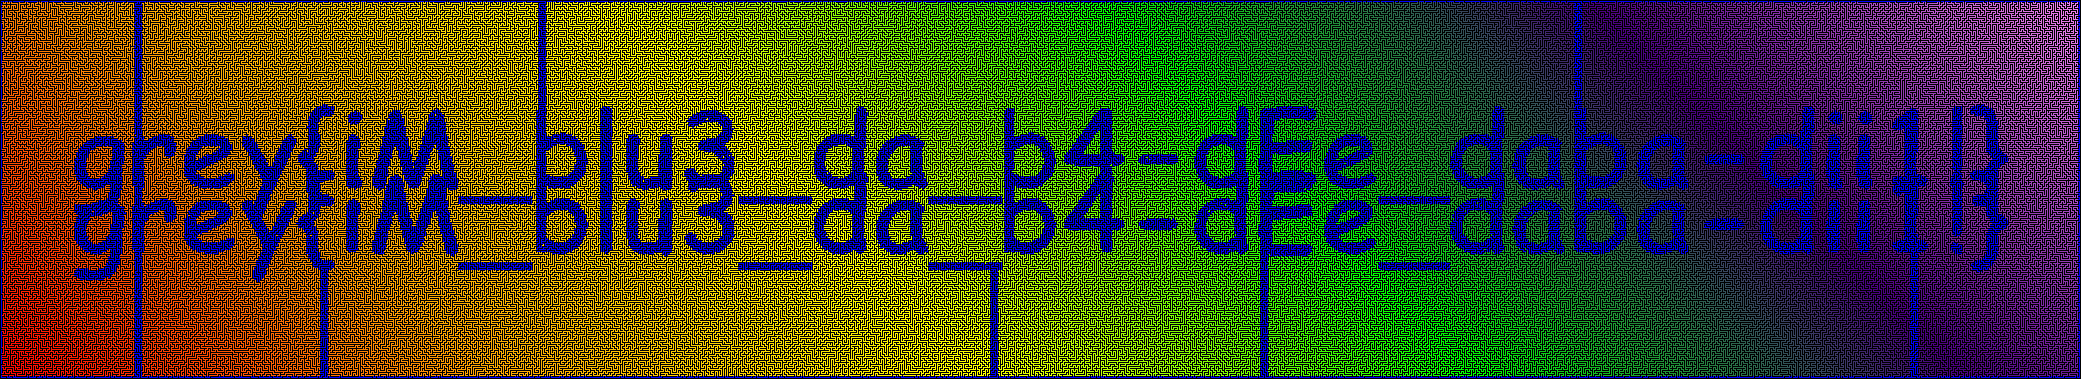
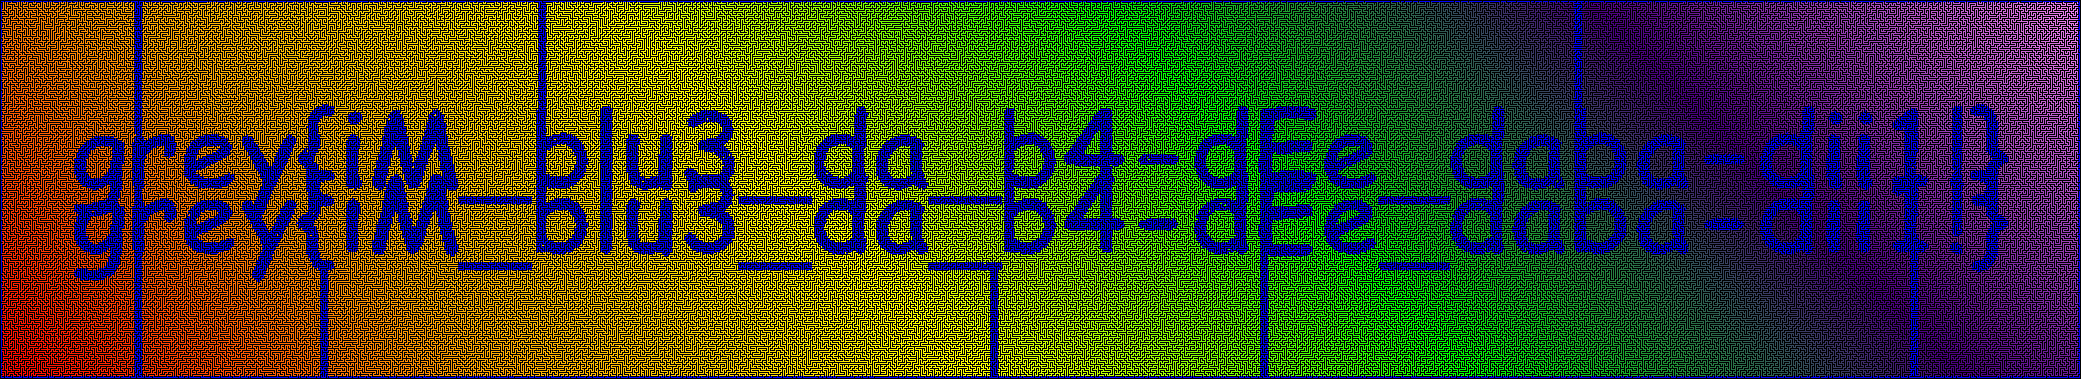
Fix off by one bug

Changed region(s): [[0.0, 0.0, 0.9995, 1.0]]

diff --git a/backend/src/maze.ts b/backend/src/maze.ts
@@ -204,9 +204,9 @@ export function getSmallMazeData(
   // Prepare colors (cell grid)
   for (let y = 0; y < colorSize; y++) {
     const colorRow: string[] = [];
-    const mazeY = centerY - smallMazeRadius + y;
+    const mazeY = centerY - (smallMazeRadius - 1) + y;
     for (let x = 0; x < colorSize; x++) {
-      const mazeX = centerX - smallMazeRadius + x;
+      const mazeX = centerX - (smallMazeRadius - 1) + x;
       if (
         mazeY >= 0 &&
         mazeY < FLAG_IMAGE.length &&
@@ -224,9 +224,9 @@ export function getSmallMazeData(
   // Prepare walls (wall grid)
   for (let y = 0; y < wallSize; y++) {
     const wallRow: boolean[] = [];
-    const mazeY = centerY * 2 - (wallSize >> 1) + y;
+    const mazeY = centerY * 2 - ((wallSize) >> 1) + 2 + y;
     for (let x = 0; x < wallSize; x++) {
-      const mazeX = centerX * 2 - (wallSize >> 1) + x;
+      const mazeX = centerX * 2 - ((wallSize) >> 1) + 2 + x;
       if (
         mazeY >= 0 &&
         mazeY < WALLS.length &&

diff --git a/frontend/src/App.tsx b/frontend/src/App.tsx
@@ -28,6 +28,8 @@ function App() {
       <div id="main-container">
         <div className="side-panel">
           <p> Some instructions here keep it short but nice follow the blue path. Use arrow keys to navigate</p>
+          <p> Maybe it forms a word?</p>
+          <p> Maze size: </p>
         </div>
         <div
           className="maze-container"
@@ -67,6 +69,7 @@ function App() {
         <div className="side-panel">
           <p>Press arrow</p>
           <p>Timer here too</p>
+          <p>Move accepted ? Tick, Cross</p>
         </div>
       </div>
 
